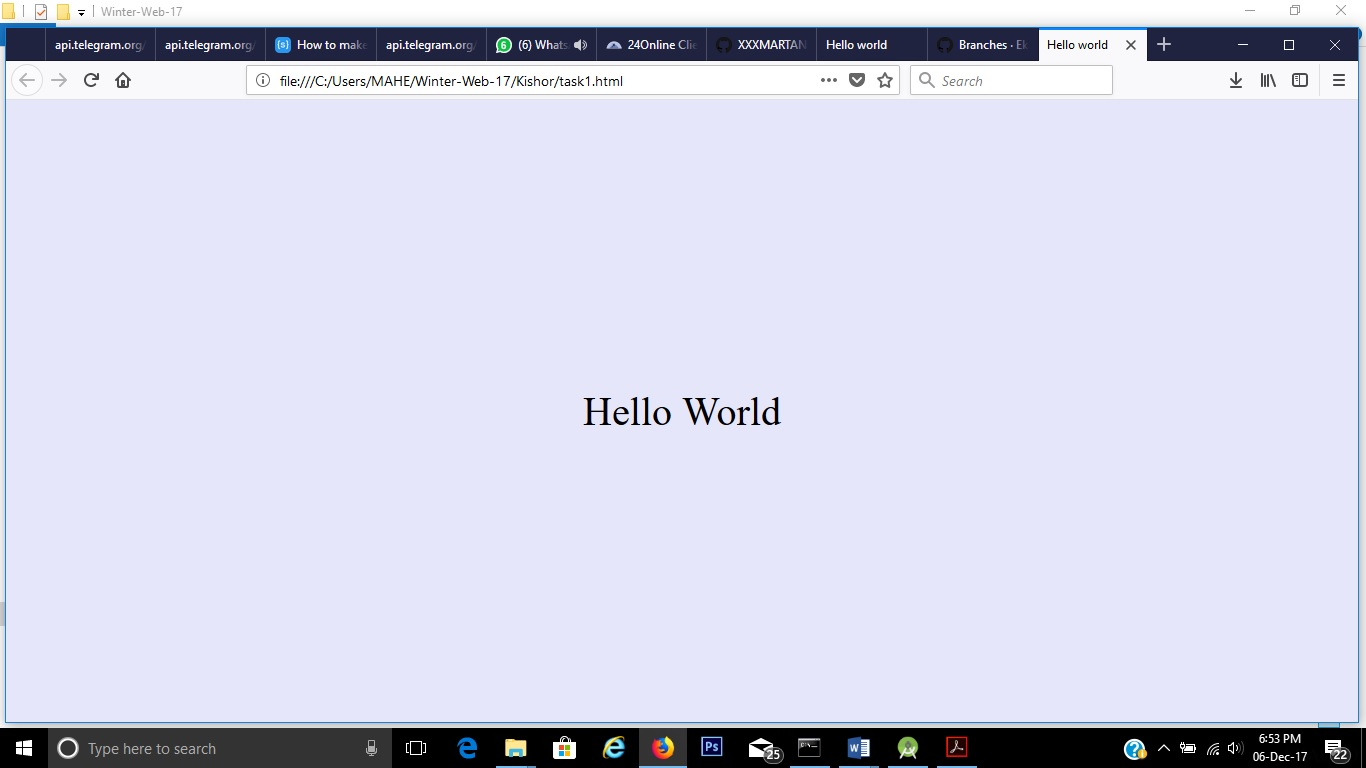
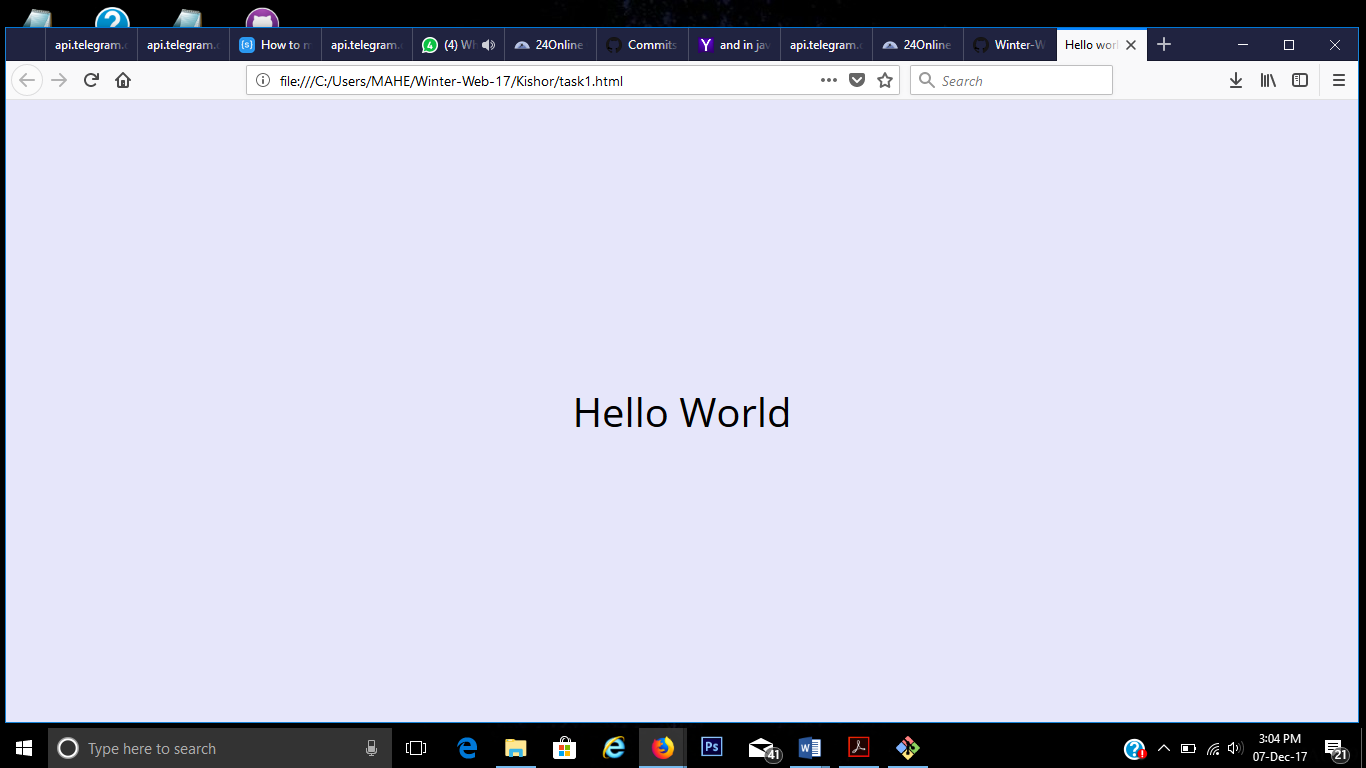
task 1

Changed region(s): [[0.0, 0.0, 1.0, 1.0], [0.3997, 0.5, 0.5842, 0.5625], [0.2152, 0.0938, 0.4612, 0.125]]

diff --git a/Kishor/task1.css b/Kishor/task1.css
@@ -6,18 +6,8 @@ body
 top : 50%;
 left : 50%;
 transform: translateX(-50%) translateY(-50%);
-font-family: "open sans light";
-font-size: 40;
+font-size: 40px; 
+font-family: open sans;
 font-weight: lighter;
 }
 
-#text2
-{
-top : 60%;
-left : 50%;
-transform: translateX(-50%) translateY(-50%);
-position: absolute;
-font-family: "open sans light";
-font-size: 40;
-font-weight: lighter;
-}

diff --git a/Kishor/task1.html b/Kishor/task1.html
@@ -1,5 +1,6 @@
 <html>
 <head>
+<link href="https://fonts.googleapis.com/css?family=Open+Sans" rel="stylesheet">
 <link rel="stylesheet" href="task1.css" type="text/css" > 
 <title>
 Hello world	
